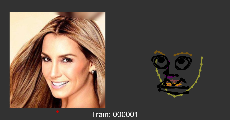
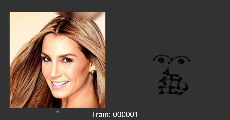
Reactive Mouth

Changed region(s): [[0.6391, 0.425, 0.8826, 0.825], [0.2435, 0.925, 0.2739, 0.95]]

diff --git a/face.js b/face.js
@@ -16,7 +16,7 @@ const stroke_color = [95, 52, 8];
  * some text here
  */
 let BrushDetail = 100;
-let iEye = 3;
+let iEye = 5;
 let iNose = 2;
 let iMouth = 1;
 let sPupil  = 0.5;
@@ -40,10 +40,9 @@ let noseCoords  = [
   [0.191290323,-0.439189189,0.191290323,-0.439189189,0.140967742,-0.44972973,0.128387097,-0.344594595,0.115806452,-0.239459459,0.48,1.905945946,0.567741935,2.242432432,0.655806452,2.578918919,1.232903226,4.240540541,1.220322581,4.419459459,1.208064516,4.598108108,1.007096774,4.482432432,1.007096774,4.524594595,1.007096774,4.566486486,0.542580645,1.495945946,0.542580645,1.274864865,0.542580645,1.054054054,0.994516129,1.737837838,1.358387097,1.905945946,1.722580645,2.074324324,-0.486451613,2.337027027,-0.838064516,2.421351351,-1.189354839,2.505405405,-1.302580645,2.358108108,-1.452903226,2.368648649,-1.603548387,2.379189189,-1.766774194,2.484324324,-1.766774194,2.484324324],
 ];
 let mouthCoords = [
-  [-2.46,-0.39,-2.4044,-0.496,-2.22,-0.63,-2.0356,-0.764,-1.2382,-1.05,-0.54,-1.11,0.1582,-1.171,1.0596,-1.096,1.38,-0.87,1.7004,-0.645,2.1272,-0.168,1.86,0.09,1.5928,0.348,1.3967,0.535,0.9,0.57,0.4033,0.605,-0.0427,0.684,-0.54,0.57,-1.0373,0.455,-1.2615,-0.014,-1.26,-0.15,-1.2585,-0.286,-1.0272,-0.767,-0.3,-0.87,0.4272,-0.974,1.1736,-0.951,1.38,-0.63,2.0449,0.403,1.8195,0.818,1.419,0.986,1.0185,1.153,0.2036,1.136,-0.3,1.29,-0.8679,1.463,-0.7558,1.463,-0.78,1.5300000],
   [2.620967742,-0.695675676,2.342903226,-0.852972973,2.192903226,-1.041621622,2.042580645,-1.230540541,1.76483871,-1.375135135,1.719677419,-1.40027027,1.674516129,-1.425675676,1.389032258,-1.035405405,1.201290323,-0.915945946,1.013548387,-0.796216216,0.292580645,-0.261351351,0.16483871,-0.305405405,0.037419355,-0.349459459,-0.803870968,-1.35,-1.104193548,-1.356216216,-1.40483871,-1.362702703,-2.651612903,-0.311891892,-2.689032258,-0.185945946,-2.726774194,-0.06,2.448064516,0.336486486,2.666129032,0.267297297,2.883870968,0.197837838,2.358064516,0.128648649,2.200322581,0.141351351,2.042580645,0.153783784,-0.067741935,0.273513514,-1.074193548,0.128648649,-2.080645161,-0.015945946,-2.523870968,0.424594595,-2.531290323,0.518918919,-2.538709677,0.613243243,-0.939032258,1.034864865,-0.037741935,1.17972973,0.863548387,1.324324324,1.952580645,1.343243243,2.388064516,1.223783784,2.823548387,1.104054054,2.620967742,1.154324324,2.620967742,1.154324324],
   [2.763870968,-0.344594595,2.561290323,-1.175135135,2.065483871,-1.168918919,1.569677419,-1.162432432,0.720967742,-1.521081081,-0.382903226,-1.301081081,-1.487096774,-1.080810811,-2.613548387,-0.822702703,-2.636129032,-0.256486486,-2.658709677,0.31,-2.290645161,0.838648649,-1.772258065,1.146756757,-1.254193548,1.455135135,1.457096774,1.014864865,1.892903226,1.058648649,2.328387097,1.102702703,1.314516129,-1.571621622,1.314516129,-1.571621622,1.314516129,-1.571621622,2.163225806,0.630810811,1.892903226,0.901351351,1.622258065,1.172162162,0.646129032,1.159459459,0.563548387,1.109189189,0.480645161,1.058648649,0.022580645,-1.288378378,0.04516129,-1.546486486,0.067741935,-1.804324324,0.345483871,0.083513514,0.353225806,0.549189189,0.360645161,1.014864865,0.187741935,1.26027027,-0.420645161,1.165675676,-1.028709677,1.071351351,-1.336774194,-0.885675676,-1.419354839,-1.206486486,-1.501935484,-1.527567568,-0.968709677,-0.124324324,-1.066451613,0.026756757,-1.164193548,0.177837838,-2.388387097,0.64972973,-2.448387097,0.549189189,-2.508387097,0.448378378,-0.473225806,0.114864865,-0.037419355,0.102162162,0.398064516,0.08972973,1.862580645,0.039459459,2.065483871,0.08972973,2.268387097,0.14,2.658709677,0.165135135,2.658709677,0.165135135],
-  [19.108,6.495,18.48,3.422,16.943,3.445,15.406,3.469,12.775,2.142,9.353,2.956,5.93,3.771,2.438,4.726,2.368,6.821,2.298,8.917,3.439,10.873,5.046,12.013,6.652,13.154,15.057,11.525,16.408,11.687,17.758,11.85,14.615,1.955,14.615,1.955,14.615,1.955,17.246,10.104,16.408,11.105,15.569,12.107,12.543,12.06,12.287,11.874,12.03,11.687,10.61,3.003,10.68,2.048,10.75,1.094,11.611,8.079,11.635,9.802,11.658,11.525,11.122,12.433,9.236,12.083,7.351,11.734,6.396,4.493,6.14,3.306,5.884,2.118,7.537,7.31,7.234,7.869,6.931,8.428,3.136,10.174,2.95,9.802,2.764,9.429,9.073,8.195,10.424,8.148,11.774,8.102,16.314,7.916,16.943,8.102,17.572,8.288,18.782,8.381,18.782,8.381],
+  [-2.46,-0.39,-2.4044,-0.496,-2.22,-0.63,-2.0356,-0.764,-1.2382,-1.05,-0.54,-1.11,0.1582,-1.171,1.0596,-1.096,1.38,-0.87,1.7004,-0.645,2.1272,-0.168,1.86,0.09,1.5928,0.348,1.3967,0.535,0.9,0.57,0.4033,0.605,-0.0427,0.684,-0.54,0.57,-1.0373,0.455,-1.2615,-0.014,-1.26,-0.15,-1.2585,-0.286,-1.0272,-0.767,-0.3,-0.87,0.4272,-0.974,1.1736,-0.951,1.38,-0.63,2.0449,0.403,1.8195,0.818,1.419,0.986,1.0185,1.153,0.2036,1.136,-0.3,1.29,-0.8679,1.463,-0.7558,1.463,-0.78,1.5300000],
 ];
 let bezierJoin  = 0;
 let coords;
@@ -70,6 +69,7 @@ function Face() {
   this.mouth_size = 1;  // range is 0.5 to 8
   this.brush_size = 1;  // range is 0.5 to 2
   this.brush_rough  = 50; // range is 0 to 100
+  this.faceDirection  = 0;  // is either 0 or 1 (0 is facing left, 1 is facing right)
 
   this.chinColour = [153, 153, 51]
   this.lipColour = [136, 68, 68]
@@ -89,49 +89,27 @@ function Face() {
     // ellipse(segment_average(positions.chin)[0], 0, 3, 4);
     noStroke();
 
-
-    // mouth
-    fill(this.detailColour);
-    ellipse(segment_average(positions.bottom_lip)[0], segment_average(positions.bottom_lip)[1], 1.36, 0.25 * this.mouth_size);
-
-    // eyebrows
-    fill( this.eyebrowColour);
-    stroke( this.eyebrowColour);
-    strokeWeight(0.08);
-    this.draw_segment(positions.left_eyebrow);
-    this.draw_segment(positions.right_eyebrow);
-
-    // draw the chin segment using points
-    fill(this.chinColour);
-    stroke(this.chinColour);
-    this.draw_segment(positions.chin);
-
-    fill(100, 0, 100);
-    stroke(100, 0, 100);
-    this.draw_segment(positions.nose_bridge);
-    this.draw_segment(positions.nose_tip);
-
-    strokeWeight(0.03);
-
-    fill(this.lipColour);
-    stroke(this.lipColour);
-    this.draw_segment(positions.top_lip);
-    this.draw_segment(positions.bottom_lip);
+    if (segment_average(positions.chin)[0] > 0){
+      this.faceDirection  = 0;
+    }
+    else  {this.faceDirection  = 1;}
 
     let left_eye_pos = segment_average(positions.left_eye);
     let right_eye_pos = segment_average(positions.right_eye);
     let nose_cent_pos = segment_average(positions.nose_bridge);
-    let mouth_pos = (segment_average(positions.top_lip)  +   segment_average(positions.bottom_lip)  / 2);
-
-    let roughness = 0;
-
+    let mouth_posX = (segment_average(positions.top_lip)[0]  +   segment_average(positions.bottom_lip)[0]  / 2);
+    let mouth_posY = (segment_average(positions.top_lip)[1]  +   segment_average(positions.bottom_lip)[1]  / 2);
+    this.mouthWidth = (positions.top_lip[6][0]-positions.top_lip[0][0]);
+    this.mouthType = (positions.bottom_lip[4][1]-positions.top_lip[4][1])/this.mouthWidth;
+    // ellipse(positions.top_lip[0][0],positions.top_lip[0][1],1);
+    // ellipse(positions.top_lip[6][0],positions.top_lip[6][1],1);
 
 
     //stroke parameters
     stroke('black');
     strokeWeight(0.1);
     fill('black');
-
+    
 
     //PUPIL LEFT
     coords  =   pupilCoords[0];
@@ -141,7 +119,7 @@ function Face() {
     let L_pupilOffsetY = -0.2;
     let L_pupilScale  = sPupil/10+0.2;
 
-    this.DrawShape(coords,   L_pupilTransX,L_pupilTransY,    L_pupilOffsetX,L_pupilOffsetY,    L_pupilScale,1,1,0,0,roughness);
+    this.DrawShape(coords,   L_pupilTransX,L_pupilTransY,    L_pupilOffsetX,L_pupilOffsetY,    L_pupilScale,1,1,0,0);
     
     //EYE LEFT
     coords  =   eyesCoords[iEye];
@@ -156,7 +134,7 @@ function Face() {
         bezierJoin = 2;
     } else  {bezierJoin = 0;}
 
-    this.DrawShape(coords,   L_eyeTransX,L_eyeTransY,    L_eyeOffsetX,L_eyeOffsetY,    L_eyeScale,1,1,0,bezierJoin,roughness);
+    this.DrawShape(coords,   L_eyeTransX,L_eyeTransY,    L_eyeOffsetX,L_eyeOffsetY,    L_eyeScale,1,1,0,bezierJoin);
 
     //PUPIL RIGHT
     coords  =   pupilCoords[0];
@@ -166,7 +144,7 @@ function Face() {
     let R_pupilOffsetY = -0.2;
     let R_pupilScale  = sPupil/10+0.2;
 
-    this.DrawShape(coords,   R_pupilTransX,R_pupilTransY,    R_pupilOffsetX,R_pupilOffsetY,    R_pupilScale,1,1,0,0,roughness);
+    this.DrawShape(coords,   R_pupilTransX,R_pupilTransY,    R_pupilOffsetX,R_pupilOffsetY,    R_pupilScale,1,1,0,0);
 
     //EYE RIGHT
     coords  =   eyesCoords[iEye];
@@ -180,7 +158,7 @@ function Face() {
     if (iEye==6) {
         bezierJoin = 2;
     }
-    this.DrawShape(coords,   R_eyeTransX,R_eyeTransY,    R_eyeOffsetX,R_eyeOffsetY,    R_eyeScale,-1,1,0,bezierJoin,roughness);
+    this.DrawShape(coords,   R_eyeTransX,R_eyeTransY,    R_eyeOffsetX,R_eyeOffsetY,    R_eyeScale,-1,1,0,bezierJoin);
 
     //NOSE
     coords  =   noseCoords[iNose];
@@ -193,18 +171,29 @@ function Face() {
     if (iNose==0){
       noseScaleX  = 1;
     }
+    if (this.faceDirection==1){
+      noseScaleX *= -1;
+    }
  
-    this.DrawShape(coords,   noseTransX,noseTransY,    noseOffsetX,noseOffsetY,    noseScale,noseScaleX,1,0,bezierJoin,roughness);   
+    this.DrawShape(coords,   noseTransX,noseTransY,    noseOffsetX,noseOffsetY,    noseScale,noseScaleX,1,0,bezierJoin);   
 
     //MOUTH
+    iMouth  =   round(map(this.mouthType,0.3,0.6,0,2,true));
     coords  =   mouthCoords[iMouth];
-    let mouthTransX = 1 + mouth_pos;
-    let mouthTransY = 0 + mouth_pos;
+    let mouthTransX = 0 + mouth_posX;
+    let mouthTransY = 0 + mouth_posY;
     let mouthOffsetX = 0;
-    let mouthOffsetY = -2.8;
-    let mouthScale = 0.4;
+    let mouthOffsetY = 0;
+    let mouthScale = this.mouthWidth/3.5;
+    let mouthScaleX = 1;
+    if (iMouth==1){
+      mouthScaleX *= -1;
+    }
+    if (this.faceDirection==1){      
+      mouthScaleX *= -1;
+    }
 
-    this.DrawShape(coords,   mouthTransX,mouthTransY,    mouthOffsetX,mouthOffsetY,    mouthScale,1,1,0,bezierJoin,roughness);
+    this.DrawShape(coords,   mouthTransX,mouthTransY,    mouthOffsetX,mouthOffsetY,    mouthScale,mouthScaleX,1,0,bezierJoin);
   }
 
   // example of a function *inside* the face object.
@@ -227,12 +216,12 @@ function Face() {
     }
   };
 
-  this.DrawShape = function(coords,dotTransX,dotTransY,dotOffsetX,dotOffsetY,shapeScale,shapeScaleX,shapeScaleY,shapeTilt,bezierJoin,roughness){
+  this.DrawShape = function(coords,dotTransX,dotTransY,dotOffsetX,dotOffsetY,shapeScale,shapeScaleX,shapeScaleY,shapeTilt,bezierJoin){
     push();
     // stroke('black');
     // strokeWeight(this.brush_size/20);
     noStroke();
-    fill(0,60);
+    fill(0,30);
 
     translate(dotTransX, dotTransY);
     scale(shapeScale*shapeScaleX,shapeScale*shapeScaleY);

diff --git a/README.md b/README.md
@@ -3,7 +3,12 @@ MY design intentions with this project make no detour from those in project 2. I
 
 Many details in the human subjects will affect the parameters of the design including age and smile. The parameters changed include jitter, brush size and brush blemishes.
 
+v2
 Many days were lost trying to adapt the loadStrings function from my Project 2 code to Project 3. This function was supposed to load the arrays of coordinates for the shapes of different parts of the face. I concluded that because of the hierarchy of this project, it just isn't possible to load strings with the preload function like I usually would, because for some reason anything loaded here would be outside of the scope of any functions run afterward. Maaybe if I spent more time I could figure out a fix for this but otherwise it seems a better use of my time to just hardcode the coordinates into the face.js script and move on.
 Given the context of the delivery for this project, I see no significant disadvantages to hardcoding the coordinates outside of the aesthetics of how the code looks.
 
+v3
 THe model has been trained on all of the images to identify both age and emotional valence (sadness/happiness). A higher age will result in the brush strokes being more jittery, and a higher emotional valence results in a fuller brush stroke.
+
+v4
+Further improved how the trained data controls the face values. The mouth is now reactive to the pose of the image, how much open the mouth is changes the mouth shape to be drawn.
